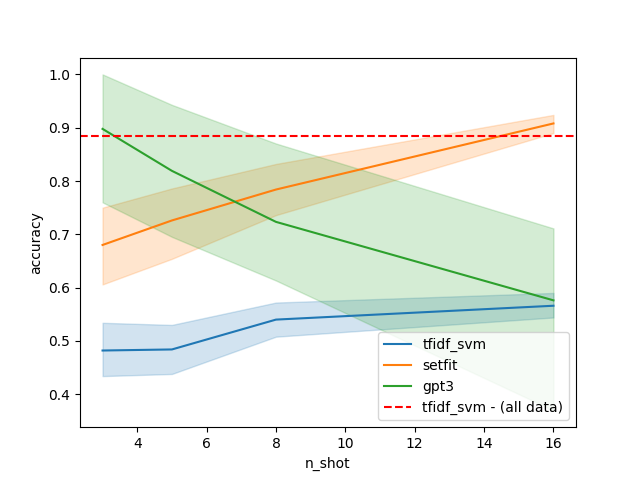
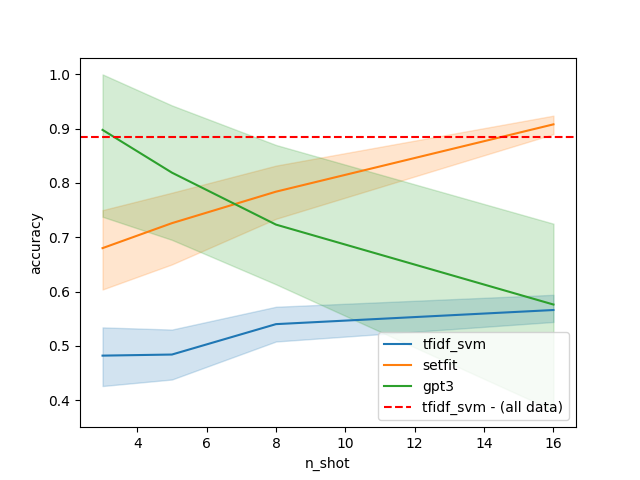
Update pipelines

diff --git a/src/evaluate_gpt3.py b/src/evaluate_gpt3.py
@@ -17,12 +17,10 @@ def create_prompt(dataset, id2label):
     labels = [id2label[label] for label in set(dataset["label"])]
     prompt = "Classify the sentence as one of {}\n".format(",".join(labels))
 
-    max_tokens_per_example = (2500 // len(dataset)) - (len(dataset) * 2)
     for example in dataset:
         text, label = example["text"], example["label"]
         label = id2label[label]
 
-        text = " ".join(text.split()[:max_tokens_per_example])
         prompt += f"Text:{text}\n"
         prompt += f"Label:{label}\n\n"
 
@@ -58,6 +56,8 @@ def evaluate(
         test_dataset = sample_dataset["test"]
 
         prompt = create_prompt(sample_dataset["train"], id2label)
+        if len(prompt.split()) > 2500:
+            continue
 
         y_test = []
         y_pred = []
